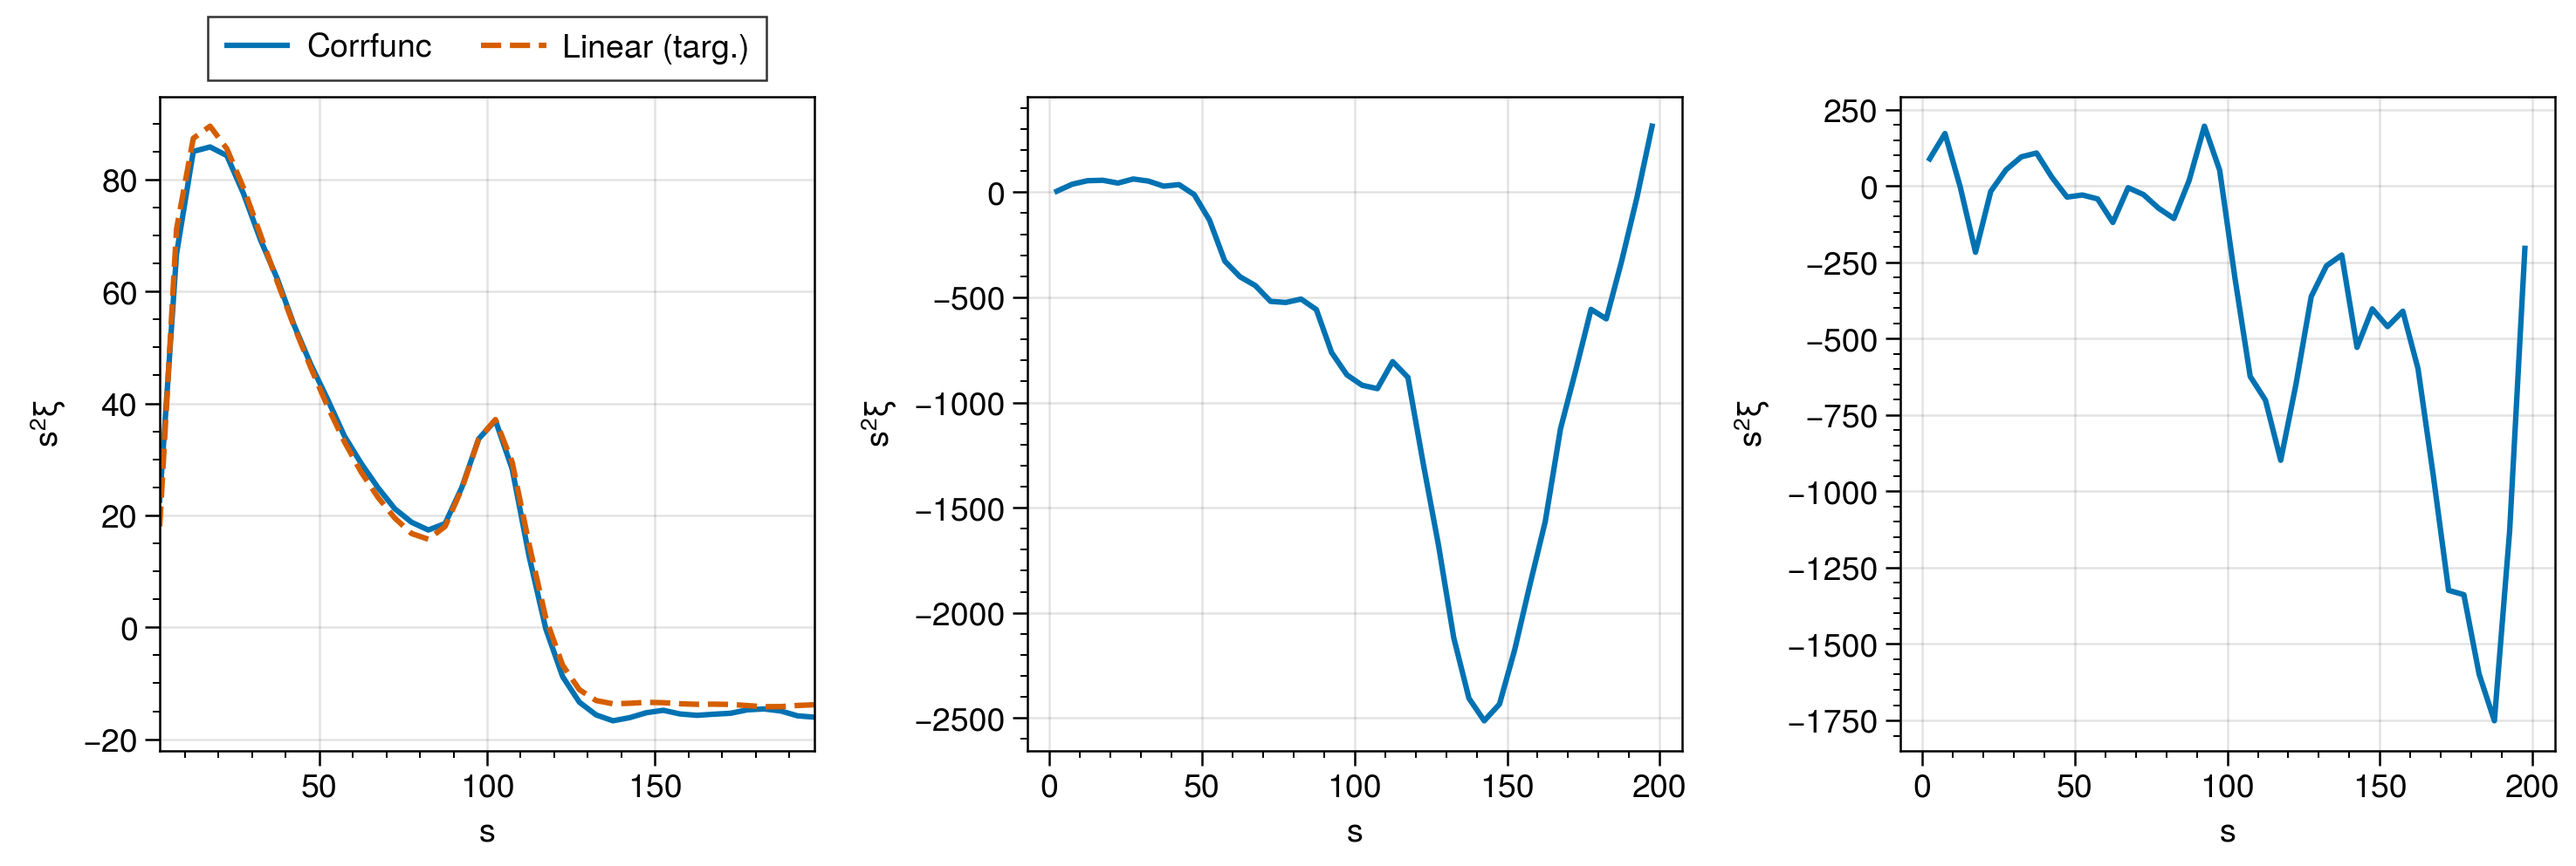
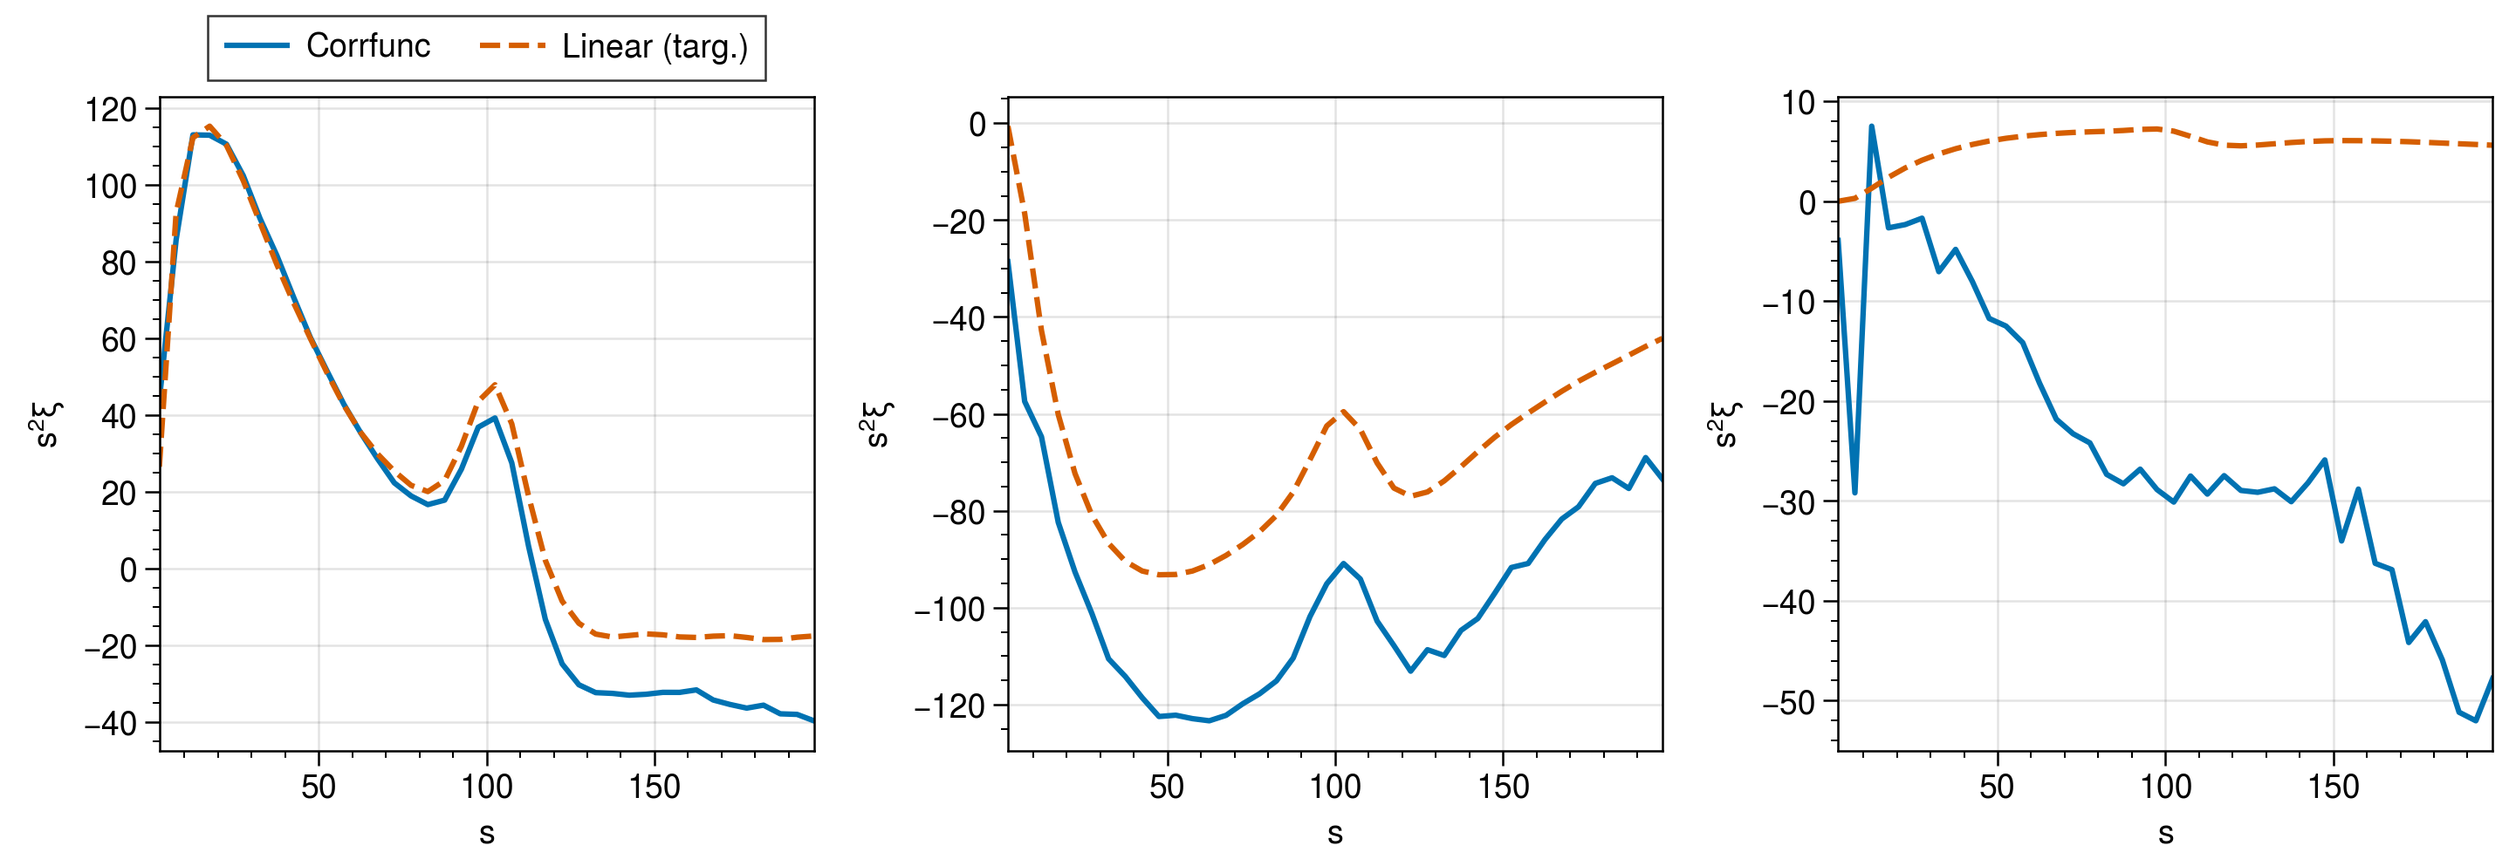
Fitting to multipoles

diff --git a/tests/lognormal_nobao_mult.py b/tests/lognormal_nobao_mult.py
@@ -7,13 +7,13 @@ from jax.experimental import loops
 import sys
 sys.path.insert(0, "/home/daniel/OneDrive/Research/jax_cosmo") #Use my local jax_cosmo with correlations module
 import jax_cosmo as jc
-from jax_cosmo.correlations import xicalc_trapz
+from jax_cosmo.correlations import xicalc_trapz, xicalc_trapz_linear
 import numpy as np
 import pandas as pd
 import proplot as pplt
 
 from src.mas import cic_mas, cic_mas_vec
-from src.correlations import powspec, powspec_vec, xi_vec, powspec_vec_fundamental, xi_vec_fundamental, kaiser_power_spectrum
+from src.correlations import powspec, powspec_vec, xi_vec, powspec_vec_fundamental, xi_vec_fundamental, kaiser_power_spectrum, xi_vec_coords
 
 import MAS_library as MASL
 import Pk_library as PKL
@@ -57,17 +57,58 @@ shot_noise = box_size**3 / n_part
 
 z = redshift
 n_bins = 256
+k_ny = jnp.pi * n_bins / box_size
 growth_rate = jc.background.growth_rate(cosmo, jnp.array([1. / (1. + z)])).squeeze()
+k_edges = jnp.arange(0.003, k_ny, 0.0025)
+k = 0.5 * (k_edges[1:] + k_edges[:-1])
+s_edges = jnp.arange(0.005, 0.35, 0.005)
+plin =  jc.power.linear_matter_power(cosmo, k, a = 1. / (1 + z), transfer_fn=jc.transfer.Eisenstein_Hu)
+plin_nw =  jc.power.linear_matter_power(cosmo, k, a = 1. / (1 + z), transfer_fn=jc.transfer.Eisenstein_Hu, type='eisenhu')
+pk0, pk2, pk4 = kaiser_power_spectrum(plin, b1, growth_rate)
+pk0 += shot_noise
+pk0_nw, pk2_nw, pk4_nw = kaiser_power_spectrum(plin_nw, b1, growth_rate)
+pk0_nw += shot_noise
+s = xi_vec_coords(n_bins, box_size, s_edges)
+s, xi0, _, _ = xicalc_trapz_linear(k, pk0, 2., s)
+s, _, xi2, _ = xicalc_trapz_linear(k, pk2, 2., s)
+s, _, _, xi4 = xicalc_trapz_linear(k, pk4, 2., s)
+
+s, xi0_nw, _, _ = xicalc_trapz_linear(k, pk0_nw, 2., s)
+s, _, xi2_nw, _ = xicalc_trapz_linear(k, pk2_nw, 2., s)
+s, _, _, xi4_nw = xicalc_trapz_linear(k, pk4_nw, 2., s)
+
+target_pk0 = pk0 / pk0_nw - 1.
+target_pk2 = pk2 / pk2_nw - 1.
+target_pk4 = pk4 / pk4_nw - 1.
+
+
+target_xi0 = s**2 * (xi0 - xi0_nw) #- 1.
+target_xi2 = s**2 * (xi2 - xi2_nw) #- 1.
+target_xi4 = s**2 * (xi4 - xi4_nw) #- 1.
+fig, ax = pplt.subplots(nrows=3, ncols=3, sharex=False, sharey=False)
+ax[3].plot(s, s**2*xi0, label='linear', ls=':')
+ax[4].plot(s, s**2*xi2, label='linear', ls=':')
+ax[5].plot(s, s**2*xi4, label='linear', ls=':')
+
+ax[3].plot(s, s**2*xi0_nw, label='linear nw', ls='-.')
+ax[4].plot(s, s**2*xi2_nw, label='linear nw', ls='-.')
+ax[5].plot(s, s**2*xi4_nw, label='linear nw', ls='-.')
+
+#ax[0].plot(s, target_xi0, label='Linear nw', ls='-.')
+#ax[1].plot(s, target_xi2, ls='-.')
+#ax[2].plot(s, target_xi4, ls='-.')
+
+fig.savefig("plots/lognormal_nobao_multi.png", dpi=300)
+
+
+
 @jax.jit
 def loss(positions):
     xpos = positions[:,0]
     ypos = positions[:,1]
     zpos = positions[:,2]
-    bias = b1#2.2
-    
-    
-    k_ny = jnp.pi * n_bins / box_size
-    k_edges = jnp.arange(0.003, k_ny, 0.0025)
+      
+
     delta = jnp.zeros((n_bins, n_bins, n_bins))
     delta = cic_mas_vec(delta,
                 xpos, ypos, zpos, w, 
@@ -77,19 +118,23 @@ def loss(positions):
                 n_bins,
                 True)
     delta /= delta.mean()
-    delta -= 1.
-    k, pk, modes = powspec_vec(delta, box_size, k_edges) 
-    
-    plin =  jc.power.linear_matter_power(cosmo, k, a = 1. / (1 + z), transfer_fn=jc.transfer.Eisenstein_Hu) + shot_noise
-    pk0, pk2, pk4 = kaiser_power_spectrum(plin, bias, growth_rate)
+    delta -= 1.    
+    k, pk, _ = powspec_vec(delta, box_size, k_edges) 
+    s_centers, xi, modes = xi_vec(delta, box_size, s_edges) 
+
     #return jnp.nanmean((jnp.log10(pk[:,0]) - jnp.log10(pk0))**2) #+ jnp.nanmean(jnp.abs(pk[:,1])) * 1e-2# + jnp.nanmean(jnp.abs(pk[:,1])) * 1e-4
     #loss_mono = jnp.nanmean(jnp.abs(pk[:,0] - pk0))
-    #loss_quad = jnp.nanmean(jnp.abs(pk[:,1] - pk2))
+    #loss_quad = jnp.nanmean(jnp.abs(pk[:,1] - pk2)) 
     #loss_hexa = jnp.nanmean(jnp.abs(pk[:,2] - pk4))
-    loss_mono = jnp.nanmean((pk[:,0] - pk0)**2)
-    loss_quad = jnp.nanmean((pk[:,1] - pk2)**2) * 2
-    loss_hexa = jnp.nanmean((pk[:,2] - pk4)**2) * 5
-    return loss_mono + loss_quad + loss_hexa
+    loss_mono = jnp.nanmean(((pk[:,0] - pk0))**2) #+ jnp.nanmean((xi[:,0] - xi0)**2)
+    loss_quad = jnp.nanmean(((pk[:,1] - pk2))**2) 
+    loss_hexa = jnp.nanmean(((pk[:,2] - pk4))**2) 
+
+    #loss_mono = jnp.nanmean((((pk[:,0]/pk0_nw - 1)) - target_pk0)**2) #+ jnp.nanmean(((s**2 * (xi[:,0] - xi0_nw)) - target_xi0)**2)
+    #loss_quad = jnp.nanmean((((pk[:,1]/pk2_nw - 1)) - target_pk2)**2) 
+    #loss_hexa = jnp.nanmean((((pk[:,2]/pk4_nw - 1)) - target_pk4)**2) 
+
+    return loss_mono + loss_quad + loss_hexa 
 
 from jax.experimental import optimizers
 key, subkey = jax.random.split(key)
@@ -104,7 +149,7 @@ def step(step, opt_state):
     value, grads = jax.value_and_grad(loss)(get_params(opt_state))
     opt_state = opt_update(step, grads, opt_state)
     return opt_state
-num_steps = 400
+num_steps = 800
 s = time.time()
 print("Training...", flush=True)
 opt_state = jax.lax.fori_loop(0, num_steps, step, opt_state)   
@@ -112,8 +157,8 @@ print(f"Training took {time.time() - s} s", flush=True)
 new_pos = get_params(opt_state)
 #final_loss = loss(w).block_until_ready()
 #print(f"Final loss: {final_loss}", flush=True)
-print(particles)
-print(new_pos)
+#print(particles)
+#print(new_pos)
 
 
 k_ny = jnp.pi * n_bins / box_size
@@ -138,9 +183,12 @@ s = s[mask]
 xi = xi[mask]
 
 bias = b1
-plin =  jc.power.linear_matter_power(jc.Planck15(), k, a=1. / (1 + z), transfer_fn=jc.transfer.Eisenstein_Hu) + shot_noise
+plin =  jc.power.linear_matter_power(cosmo, k, a=1. / (1 + z), transfer_fn=jc.transfer.Eisenstein_Hu) 
 pk0, pk2, pk4 = kaiser_power_spectrum(plin, bias, growth_rate)
-fig, ax = pplt.subplots(nrows=3, ncols=3, sharex=False, sharey=False)
+pk0 += shot_noise
+plin_nw =  jc.power.linear_matter_power(cosmo, k, a = 1. / (1 + z), transfer_fn=jc.transfer.Eisenstein_Hu, type='eisenhu')
+pk0_nw, pk2_nw, pk4_nw = kaiser_power_spectrum(plin_nw, b1, growth_rate)
+pk0_nw += shot_noise
 ax[-2].imshow(delta[:,:,:].mean(axis=2), colorbar='r')
 ax[-2].format(title='Corrected')
 ax[0].plot(k, k*pk[:, 0], label='Corrected mono')
@@ -149,6 +197,9 @@ ax[2].plot(k, k*pk[:, 2], label='')
 ax[0].plot(k, k*pk0, label='Linear', ls=':')
 ax[1].plot(k, k*pk2, ls=':')
 ax[2].plot(k, k*pk4, ls=':')
+ax[0].plot(k, k*pk0_nw, label='Linear nw', ls='-.')
+ax[1].plot(k, k*pk2_nw, ls='-.')
+ax[2].plot(k, k*pk4_nw, ls='-.')
 ax[3].plot(s, s**2*xi[:,0], label='Corrected')
 ax[4].plot(s, s**2*xi[:,1], label='Corrected')
 ax[5].plot(s, s**2*xi[:,2], label='Corrected')
@@ -169,7 +220,8 @@ k, pk, modes = powspec_vec_fundamental(delta, box_size)
 mask = k < k_ny
 k = k[mask]
 pk = pk[mask]
-s, xi, modes = xi_vec_fundamental(delta, box_size)
+#s, xi, modes = xi_vec_fundamental(delta, box_size)
+s, xi, modes = xi_vec(delta, box_size, s_edges)
 mask = s < 200
 s = s[mask]
 xi = xi[mask]
@@ -180,18 +232,9 @@ ax[2].plot(k, k*pk[:, 2], label='Corrected hexa')
 ax[3].plot(s, s**2*xi[:,0], label='Log-normal', ls = '--')
 ax[4].plot(s, s**2*xi[:,1], label='Log-normal')
 ax[5].plot(s, s**2*xi[:,2], label='Log-normal')
-klin = np.logspace(-3, 0, 2048)
-plin =  jc.power.linear_matter_power(jc.Planck15(), klin, a=1. / (1 + z), transfer_fn=jc.transfer.Eisenstein_Hu) + shot_noise
-pk0, pk2, pk4 = kaiser_power_spectrum(plin, bias, growth_rate)
-s, xi0, _, _ = xicalc_trapz(klin, pk0, 2., s)
-s, _, xi2, _ = xicalc_trapz(klin, pk2, 2., s)
-s, _, _, xi4 = xicalc_trapz(klin, pk4, 2., s)
-ax[3].plot(s, s**2*xi0, label='linear', ls=':')
-ax[4].plot(s, s**2*xi2, label='linear', ls=':')
-ax[5].plot(s, s**2*xi4, label='linear', ls=':')
 
 
-ax[0].format(xscale = 'log', yscale = 'linear', xlabel='$k$ [$h$/Mpc]', ylabel='$P(k)$')
+ax[0,:].format(xscale = 'log', yscale = 'linear', xlabel='$k$ [$h$/Mpc]', ylabel='$P(k)$')
 ax[-1].imshow(delta[:,:,:].mean(axis=2), colorbar='r')
 ax[-1].format(title='Log-normal')
 ax[0].legend(loc='bottom')

diff --git a/tests/corrfunc.py b/tests/corrfunc.py
@@ -9,7 +9,9 @@ sys.path.insert(0, "/home/daniel/OneDrive/Research/jax_cosmo") #Use my local jax
 sys.path.insert(0, "/home/astro/dforero/projects/jax_cosmo") #Use my local jax_cosmo with correlations module
 import jax_cosmo as jc
 from jax_cosmo.correlations import xicalc_trapz
+import jax.numpy as jnp
 from scipy.special import legendre
+from src.correlations import kaiser_power_spectrum
 
 
 def pair_counts_to_mp(pair_counts, sbin_arr, n_mu_bin, poles):
@@ -18,7 +20,8 @@ def pair_counts_to_mp(pair_counts, sbin_arr, n_mu_bin, poles):
     multipoles = np.zeros((sbin_arr.shape[0] - 1, len(poles)))
     
     for i, l in enumerate(poles):
-        factor = 2 * l + 1 / n_mu_bin
+        factor = (2 * l + 1) / n_mu_bin
+        #factor = (2 * l + 1) * (mu[1] - mu[0])
         multipoles[:, i] = (pair_counts.reshape(sbin_arr.shape[0] - 1, n_mu_bin) * factor * legendre(l)(mu)[None, :]).sum(axis=1)
     return multipoles
 
@@ -34,21 +37,25 @@ def rr_analytic2d(bin_low_bound, bin_high_bound, box_size, nmu_bins=40):
 
 bins = np.linspace(1e-5, 200, 41)
 box_size = 1000.
-if not os.path.isfile("data/corrfunc_xi.npz") or 1:
-    data = np.load("data/lognormal_nobao_corrected.npy")
+nmu_bins = 40
+data = np.load("data/lognormal_nobao_multi_corrected.npy")
+if not os.path.isfile("data/corrfunc_xi.npz"):
+    
+    print("Computing pair counts ...", flush=True)
     results = DDsmu(1, 32, bins, 1., 40,
                   data[:,0], data[:,1], data[:,2],
                   output_savg=True, boxsize=box_size, periodic=True)
     norm = data.shape[0] * (data.shape[0] - 1.)
     np.savez("data/corrfunc_xi.npz", results=results, norm=norm)
 else:
+    print("Loading pair counts ...", flush=True)
     _results = np.load("data/corrfunc_xi.npz")
     results = _results['results']
     norm = _results['norm']
 
-rr = rr_analytic2d(bins[:-1], bins[1:], box_size, nmu_bins=40)
-xi = ((results['npairs'].reshape(bins.shape[0] - 1, 40) / norm) - rr) / rr
-multipoles = pair_counts_to_mp(xi, bins, 40, [0,2,4])
+rr = rr_analytic2d(bins[:-1], bins[1:], box_size, nmu_bins=nmu_bins)
+xi = ((results['npairs'].reshape(bins.shape[0] - 1, nmu_bins) / norm) - rr) / rr
+multipoles = pair_counts_to_mp(xi, bins, nmu_bins, [0,2,4])
 
 
 fig, ax = pplt.subplots(nrows=1, ncols=3, sharex=False, sharey=False)
@@ -62,10 +69,18 @@ fig.savefig("plots/corrfunc_xi.png", dpi=300)
 bias = 2.
 redshift = 0.55
 z = redshift
+cosmo = jc.Planck15()
+growth_rate = jc.background.growth_rate(cosmo, jnp.array([1. / (1. + z)])).squeeze()
+shot_noise = box_size**3 / data.shape[0]
 klin = np.logspace(-3, 0, 2048)
-plin = bias**2 * jc.power.linear_matter_power(jc.Planck15(), klin, a=1. / (1 + z), transfer_fn=jc.transfer.Eisenstein_Hu)
-s, xi = xicalc_trapz(klin, plin, 2., s_center)
-ax[0].plot(s, s**2*xi, label='Linear (targ.)', ls='--')
+plin = jc.power.linear_matter_power(cosmo, klin, a=1. / (1 + z), transfer_fn=jc.transfer.Eisenstein_Hu) 
+pk0, pk2, pk4 = kaiser_power_spectrum(plin, bias, growth_rate)
+s, xi0, _, _ = xicalc_trapz(klin, pk0 + shot_noise, 2., s_center)
+s, _, xi2, _ = xicalc_trapz(klin, pk2, 2., s_center)
+s, _, _, xi4 = xicalc_trapz(klin, pk4, 2., s_center)
+ax[0].plot(s, s**2*xi0, label='Linear (targ.)', ls='--')
+ax[1].plot(s, s**2*xi2, label='Linear (targ.)', ls='--')
+ax[2].plot(s, s**2*xi4, label='Linear (targ.)', ls='--')
 ax[0].legend(loc='top')
 ax.format(xlabel='$s$', ylabel = r'$s^2\xi$')
 
